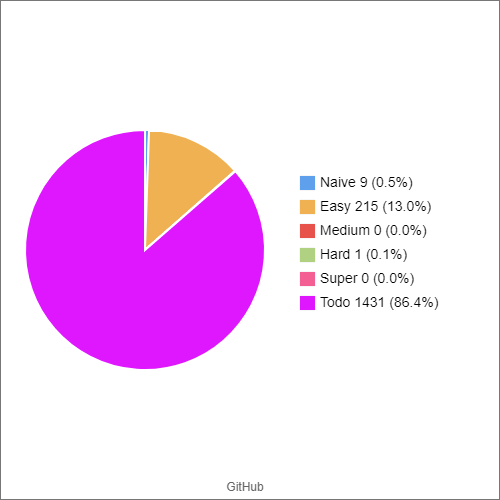
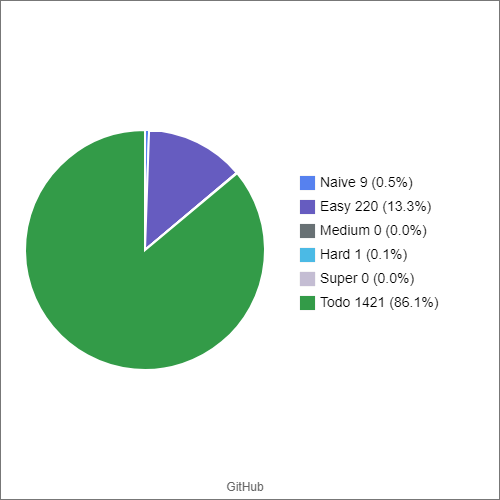
2020.8.13

diff --git a/Easy/Easy1510. Buddy Strings.cpp b/Easy/Easy1510. Buddy Strings.cpp
@@ -1,0 +1,88 @@
+/*
+
+requirements
+
+1510. Buddy Strings
+Given two strings A and B of lowercase letters, return true if and only if we can swap two letters in A so that the result equals B.
+
+Example
+Example 1:
+
+Input: A = "ab", B = "ba"
+Output: true
+Example 2:
+
+Input: A = "ab", B = "ab"
+Output: false
+Example 3:
+
+Input: A = "aa", B = "aa"
+Output: true
+Example 4:
+
+Input: A = "aaaaaaabc", B = "aaaaaaacb"
+Output: true
+Example 5:
+
+Input: A = "", B = "aa"
+Output: false
+Notice
+1.0 <= A.length <= 20000
+2.0 <= A.length <= 20000
+3.A and B consist only of lowercase letters.
+*/
+
+class Solution {
+public:
+    /**
+     * @param A: string A
+     * @param B: string B
+     * @return: bool
+     */
+    bool buddyStrings(string &A, string &B) {
+        // Write your code here
+        int cnt = 0; bool tag = false;
+        unordered_map<char, int> hashMap;
+        if (A.size() != B.size())
+            return false;
+        for (size_t i = 0; i < A.size(); ++i)
+        {
+            if (A[i] != B[i])
+                ++cnt;
+            if (hashMap.count(A[i]))
+                ++hashMap[A[i]], tag = true;
+            else hashMap[A[i]] = 1;
+            if (hashMap.count(B[i]))
+                --hashMap[B[i]];
+            else hashMap[B[i]] = -1;
+        }
+        for (auto&& elem: hashMap)
+        {
+            if (elem.second)
+                return false;
+        }
+        return cnt == 0 && tag || cnt == 2;
+    }
+};
+
+// the other Solution
+/*
+class Solution {
+public:
+    bool buddyStrings(string &A, string &B) {
+        if (A.length() != B.length()) {
+            return false;
+        }
+        if (A == B && set<char>(A.begin(), A.end()).size() < A.size()) {
+            return true;
+        }
+        vector<int> dif;
+        for (int i = 0; i < A.length(); ++i) {
+            if (A[i] != B[i]) {
+                dif.push_back(i);
+            }
+        }
+        return dif.size() == 2 && A[dif[0]] == B[dif[1]] && A[dif[1]] == B[dif[0]];
+    }
+};
+*/

diff --git a/Easy/Easy1886. Moving Target.cpp b/Easy/Easy1886. Moving Target.cpp
@@ -1,0 +1,79 @@
+/*
+
+requirements
+
+1886. Moving Target
+Given an array nums and an integer target ,
+you need to move the element which equal to target to the front of the array, and the order of the remain elements can not be changed.
+You must do this moving in-place without making a copy of the array.
+
+Example
+Example 1:
+Input:
+nums = [5, 1, 6, 1]
+target=1
+Output: [1, 1, 5, 6]
+Explanation: 1 is target, so you should keep them in the front of array
+Example 2:
+Input:
+nums = [-1, 2, 3, 5, 2, 2]
+target = 2
+Output: [2, 2, 2, -1, 3, 5]
+Explanation: 2 is target, so you should keep them in front of the array 
+Example 3:
+Input:
+nums = [2, 3, 4, 6]
+target = 1
+Output: [2, 3, 4, 6]
+Explanation: there is not target
+Notice
+The length of array is within range: [1, 100000]
+if not appear target, you needn't do any change in place.
+
+*/
+
+class Solution {
+public:
+    /**
+     * @param nums: a list of integer
+     * @param target: an integer
+     * @return: nothing
+     */
+    void MoveTarget(vector<int> &nums, int target) {
+        // write your code here
+        if (nums.empty())
+            return;
+        int k = nums.size() - 1;
+        vector<int> tmp(nums.size(), target);
+        for (int i = k; i >= 0; --i)
+            if (nums[i] != target)
+                tmp[k--] = nums[i];
+        nums.swap(tmp);
+    }
+};
+
+/*
+class Solution {
+public:
+    void MoveTarget(vector<int> &nums, int target) {
+        // write your code here
+        if (nums.empty())
+            return;
+        
+        int right = nums.size() - 1;
+        int left = right;
+        
+        for (; right >= 0; right--)
+        {
+            while (left >= 0 && nums[left] == target)
+                --left;
+            if (left < 0)
+                break;
+            nums[right] = nums[left--];
+        }
+        
+        for (int i = 0; i <= right; i++)
+        nums[i] = target;
+    }
+};
+*/

diff --git a/Easy/Easy1745. Monotonic Array.cpp b/Easy/Easy1745. Monotonic Array.cpp
@@ -1,0 +1,46 @@
+/*
+
+requirements
+
+1745. Monotonic Array
+An array is monotonic if it is either monotone increasing or monotone decreasing.
+
+An array A is monotone increasing if for all i <= j, A[i] <= A[j]. An array A is monotone decreasing if for all i <= j, A[i] >= A[j].
+
+Return true if and only if the given array A is monotonic.
+
+Example
+Example 1:
+
+Input: [1,2,2,3]
+Output: true
+Example 2:
+
+Input: [1,3,2]
+Output: false
+Notice
+1 \leq A.length \leq 500001≤A.length≤50000
+-100000 \leq A[i] \leq 100000−100000≤A[i]≤100000
+*/
+
+class Solution {
+public:
+    /**
+     * @param A: a array
+     * @return: is it monotonous
+     */
+    bool isMonotonic(vector<int> &A) {
+        // Write your code here.
+        bool tag1 = true, tag2 = true;
+        for (int i = 1; i < A.size(); ++i)
+        {
+            if (A[i] > A[i - 1])
+                tag1 = false;
+            if (A[i] < A[i - 1])
+                tag2 = false;
+            if (!tag1 && !tag2)
+                break;
+        }
+        return tag1 || tag2;
+    }
+};

diff --git a/Easy/Easy1505. Find the Number.cpp b/Easy/Easy1505. Find the Number.cpp
@@ -1,0 +1,34 @@
+/*
+
+requirements
+
+1505. Find the Number
+Given an unsorted array of n elements, find if the element k is present in the array or not.
+Complete the findnNumber function in the editor below.It has 2 parameters:
+1 An array of integers, arr, denoting the elements in the array.
+2 An integer, k, denoting the element to be searched in the array.
+The function must return true or false denoting if the element is present in the array or not
+
+Example
+Example:
+Input:
+arr = [1, 2, 3, 4, 5]
+k = 1
+Output: true
+Notice
+1 <= n <= 10^5
+1 <= arr[i] <= 10^9
+*/
+
+class Solution {
+public:
+    /**
+     * @param nums: a integer array
+     * @param k: a integer
+     * @return: return true or false denoting if the element is present in the array or not
+     */
+    bool findnNumber(vector<int> &nums, int k) {
+        // write your code here
+        return find(nums.begin(), nums.end(), k) != nums.end();
+    }
+};

diff --git a/Easy/Easy1535. To Lower Case.cpp b/Easy/Easy1535. To Lower Case.cpp
@@ -1,0 +1,38 @@
+/*
+
+requirements
+
+1535. To Lower Case
+Implement function ToLowerCase() that has a string parameter str, and returns the same string in lowercase.
+
+Example
+Example 1:
+
+Input: "Hello"
+Output: "hello"
+Example 2:
+
+Input: "here"
+Output: "here"
+Example 3:
+
+Input: "LOVELY"
+Output: "lovely"
+*/
+
+class Solution {
+public:
+    /**
+     * @param str: the input string
+     * @return: The lower case string
+     */
+    string toLowerCase(string &str) {
+        // Write your code here
+        for (size_t i = 0; i < str.length(); ++i)
+        {
+            if (isupper(str[i]))
+                str[i] += 32;
+        }
+        return str;
+    }
+};
